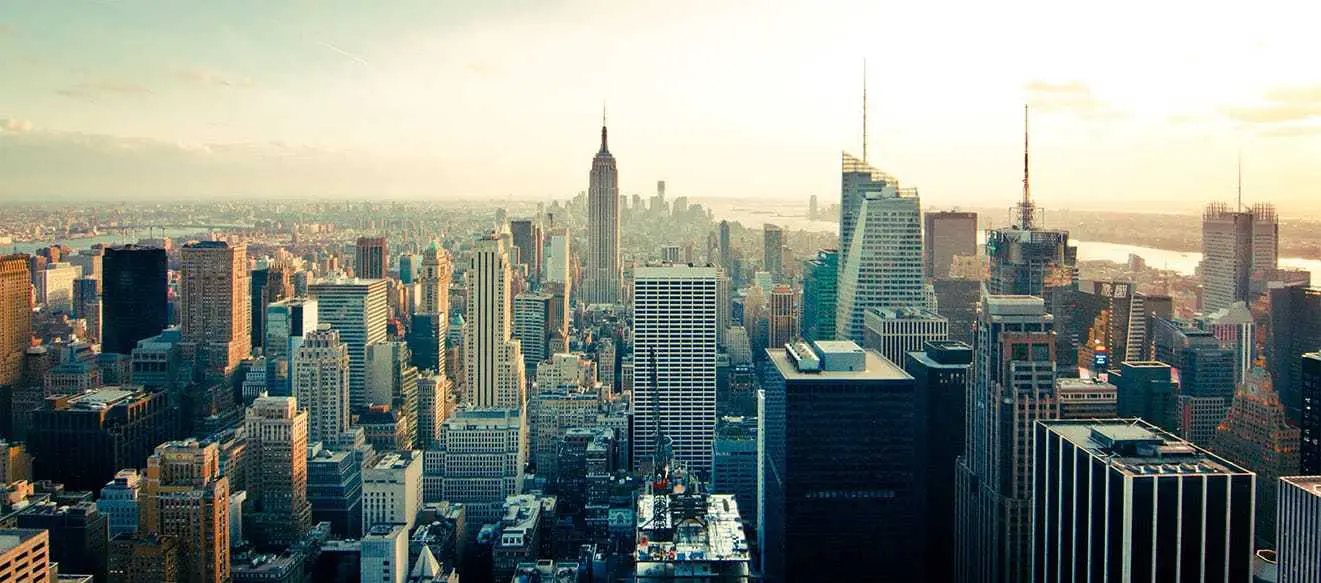
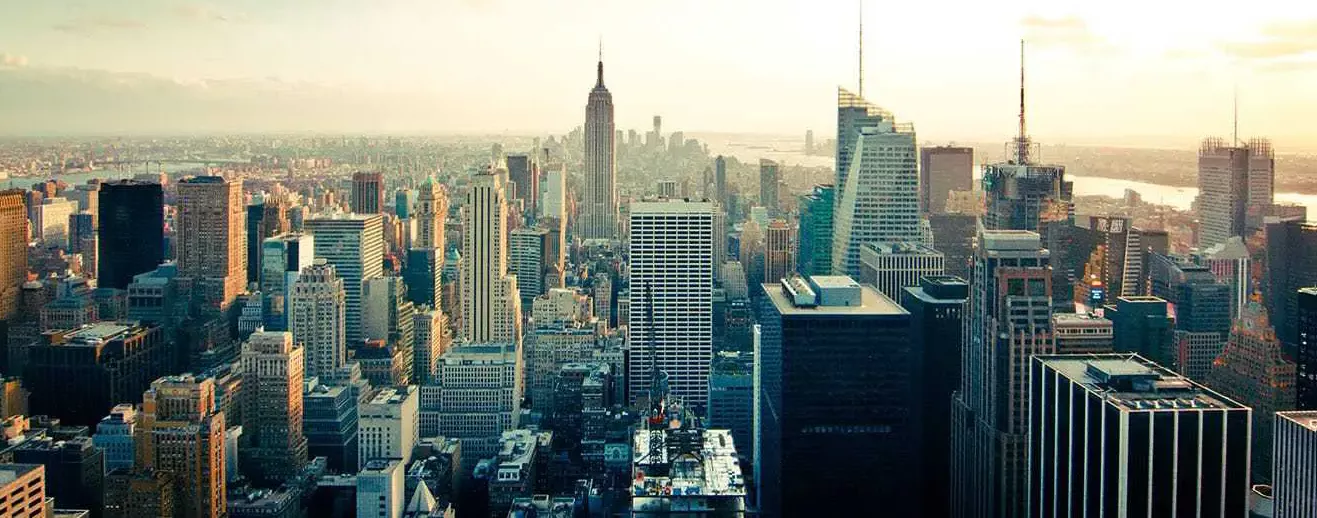
made components

diff --git a/tailwind.config.js b/tailwind.config.js
@@ -26,9 +26,6 @@ export default {
             gridTemplateColumns: {
                 autofit: "repeat(auto-fit, minmax(240px, 1fr))",
             },
-            backgroundImage: {
-                shore: "url('/images/shore.jpg')",
-            },
         },
     },
 

diff --git a/resources/views/layouts/article.blade.php b/resources/views/layouts/article.blade.php
@@ -1,44 +1,8 @@
-<html data-theme="corporate" lang="ja">
-
-<head>
-    <meta charset="UTF-8">
-    <meta name="viewport" content="width=device-width, initial-scale=1.0">
-    <meta http-equiv="X-UA-Compatible" content="ie=edge">
-    <title>Card Blog - Blog Portfolio</title>
-    <!-- Fonts -->
-    <link rel="preconnect" href="https://fonts.bunny.net">
-    <link href="https://fonts.bunny.net/css?family=figtree:400,500,600&display=swap" rel="stylesheet" />
-
-    <!-- Scripts -->
-    @vite(['resources/css/app.css', 'resources/js/app.js'])
-</head>
-
-<body class="bg-base-200 font-jp">
+<x-head-layout>
     @include('components.header')
     <main class="container max-w-screen-xl px-4 mx-auto">
         {{ $slot }}
     </main>
     </div>
-    <footer class="footer mt-20 p-10 bg-neutral text-neutral-content">
-        <div>
-            <svg width="50" height="50" viewBox="0 0 24 24" xmlns="http://www.w3.org/2000/svg"
-                fill-rule="evenodd" clip-rule="evenodd" class="fill-current">
-                <path
-                    d="M22.672 15.226l-2.432.811.841 2.515c.33 1.019-.209 2.127-1.23 2.456-1.15.325-2.148-.321-2.463-1.226l-.84-2.518-5.013 1.677.84 2.517c.391 1.203-.434 2.542-1.831 2.542-.88 0-1.601-.564-1.86-1.314l-.842-2.516-2.431.809c-1.135.328-2.145-.317-2.463-1.229-.329-1.018.211-2.127 1.231-2.456l2.432-.809-1.621-4.823-2.432.808c-1.355.384-2.558-.59-2.558-1.839 0-.817.509-1.582 1.327-1.846l2.433-.809-.842-2.515c-.33-1.02.211-2.129 1.232-2.458 1.02-.329 2.13.209 2.461 1.229l.842 2.515 5.011-1.677-.839-2.517c-.403-1.238.484-2.553 1.843-2.553.819 0 1.585.509 1.85 1.326l.841 2.517 2.431-.81c1.02-.33 2.131.211 2.461 1.229.332 1.018-.21 2.126-1.23 2.456l-2.433.809 1.622 4.823 2.433-.809c1.242-.401 2.557.484 2.557 1.838 0 .819-.51 1.583-1.328 1.847m-8.992-6.428l-5.01 1.675 1.619 4.828 5.011-1.674-1.62-4.829z">
-                </path>
-            </svg>
-            <p>Copyright © 2023 Sue <br> All Rights Reserved.</p>
-        </div>
-        <div class="mx">
-            <span class="footer-title">repository</span>
-            <a href="https://github.com/suesanjp/LaravelBlog"><svg xmlns="http://www.w3.org/2000/svg"
-                    xmlns:xlink="http://www.w3.org/1999/xlink" width="25px" height="24px" viewBox="0 0 24 24"
-                    version="1.1">
-                    <path style=" stroke:none;fill-rule:evenodd;fill:rgb(100%,100%,100%);fill-opacity:1;"
-                        d="M 11.964844 0 C 5.347656 0 0 5.5 0 12.304688 C 0 17.742188 3.425781 22.347656 8.179688 23.976562 C 8.773438 24.097656 8.992188 23.710938 8.992188 23.386719 C 8.992188 23.101562 8.972656 22.125 8.972656 21.105469 C 5.644531 21.839844 4.953125 19.636719 4.953125 19.636719 C 4.417969 18.210938 3.625 17.84375 3.625 17.84375 C 2.535156 17.089844 3.703125 17.089844 3.703125 17.089844 C 4.914062 17.171875 5.546875 18.355469 5.546875 18.355469 C 6.617188 20.226562 8.339844 19.699219 9.03125 19.371094 C 9.132812 18.578125 9.449219 18.027344 9.785156 17.722656 C 7.132812 17.4375 4.339844 16.378906 4.339844 11.652344 C 4.339844 10.308594 4.8125 9.207031 5.566406 8.351562 C 5.445312 8.046875 5.03125 6.785156 5.683594 5.09375 C 5.683594 5.09375 6.695312 4.765625 8.972656 6.355469 C 9.949219 6.085938 10.953125 5.949219 11.964844 5.949219 C 12.972656 5.949219 14.003906 6.089844 14.957031 6.355469 C 17.234375 4.765625 18.242188 5.09375 18.242188 5.09375 C 18.898438 6.785156 18.480469 8.046875 18.363281 8.351562 C 19.136719 9.207031 19.589844 10.308594 19.589844 11.652344 C 19.589844 16.378906 16.796875 17.417969 14.125 17.722656 C 14.558594 18.109375 14.933594 18.84375 14.933594 20.003906 C 14.933594 21.65625 14.914062 22.980469 14.914062 23.386719 C 14.914062 23.710938 15.132812 24.097656 15.726562 23.976562 C 20.480469 22.347656 23.910156 17.742188 23.910156 12.304688 C 23.929688 5.5 18.558594 0 11.964844 0 Z M 11.964844 0 " />
-                </svg></a>
-        </div>
-    </footer>
-</body>
-
-</html>
+    @include('components.footer')
+</x-head-layout>

diff --git a/resources/views/components/footer.blade.php b/resources/views/components/footer.blade.php
@@ -1,0 +1,36 @@
+<footer class="footer mt-20 p-10 bg-neutral text-neutral-content flex justify-around">
+    <div>
+        <svg height="80px" width="80px" version="1.1" id="_x32_" xmlns="http://www.w3.org/2000/svg"
+            xmlns:xlink="http://www.w3.org/1999/xlink" viewBox="0 0 512 512" xml:space="preserve">
+            <style type="text/css">
+                .st0 {
+                    fill: #ffffff;
+                }
+            </style>
+            <g>
+                <path class="st0"
+                    d="M320.707,0L37.037,69.971v417.625L320.447,512l154.516-26.258V62.568L320.707,0z M290.346,471.742
+		l-92.584-7.974v-79.426l-55.086-0.677v75.36l-68.109-5.866V99.367l215.779-53.224V471.742z" />
+                <polygon class="st0" points="271.25,76.933 226.537,86.32 226.537,138.956 271.25,131.246 	" />
+                <polygon class="st0" points="118.574,112.033 87.416,118.622 87.416,164.818 118.574,159.469 	" />
+                <polygon class="st0" points="190.012,95.942 150.426,104.23 150.426,153.027 190.012,146.202 	" />
+                <polygon class="st0" points="118.576,203.184 87.416,207.448 87.416,253.722 118.576,250.622 	" />
+                <polygon class="st0" points="190.012,192.792 150.426,198.154 150.426,246.952 190.012,243.052 	" />
+                <polygon class="st0" points="271.25,181.04 226.537,187.097 226.537,238.911 271.25,234.506 	" />
+                <polygon class="st0" points="271.25,286.135 226.537,288.889 226.537,340.702 271.25,339.6 	" />
+                <polygon class="st0" points="190.012,291.476 150.426,293.914 150.426,342.712 190.012,341.737 	" />
+                <polygon class="st0" points="118.574,296.198 87.416,298.136 87.416,344.409 118.574,343.634 	" />
+            </g>
+        </svg>
+        <p>Copyright © 2023 Sue <br> All Rights Reserved.</p>
+    </div>
+    <div>
+        <span class="footer-title">repository</span>
+        <a class="mx-auto" href="https://github.com/suesanjp/LaravelBlog"><svg xmlns="http://www.w3.org/2000/svg"
+                xmlns:xlink="http://www.w3.org/1999/xlink" width="60px" height="60px" viewBox="0 0 24 24"
+                version="1.1">
+                <path style=" stroke:none;fill-rule:evenodd;fill:rgb(100%,100%,100%);fill-opacity:1;"
+                    d="M 11.964844 0 C 5.347656 0 0 5.5 0 12.304688 C 0 17.742188 3.425781 22.347656 8.179688 23.976562 C 8.773438 24.097656 8.992188 23.710938 8.992188 23.386719 C 8.992188 23.101562 8.972656 22.125 8.972656 21.105469 C 5.644531 21.839844 4.953125 19.636719 4.953125 19.636719 C 4.417969 18.210938 3.625 17.84375 3.625 17.84375 C 2.535156 17.089844 3.703125 17.089844 3.703125 17.089844 C 4.914062 17.171875 5.546875 18.355469 5.546875 18.355469 C 6.617188 20.226562 8.339844 19.699219 9.03125 19.371094 C 9.132812 18.578125 9.449219 18.027344 9.785156 17.722656 C 7.132812 17.4375 4.339844 16.378906 4.339844 11.652344 C 4.339844 10.308594 4.8125 9.207031 5.566406 8.351562 C 5.445312 8.046875 5.03125 6.785156 5.683594 5.09375 C 5.683594 5.09375 6.695312 4.765625 8.972656 6.355469 C 9.949219 6.085938 10.953125 5.949219 11.964844 5.949219 C 12.972656 5.949219 14.003906 6.089844 14.957031 6.355469 C 17.234375 4.765625 18.242188 5.09375 18.242188 5.09375 C 18.898438 6.785156 18.480469 8.046875 18.363281 8.351562 C 19.136719 9.207031 19.589844 10.308594 19.589844 11.652344 C 19.589844 16.378906 16.796875 17.417969 14.125 17.722656 C 14.558594 18.109375 14.933594 18.84375 14.933594 20.003906 C 14.933594 21.65625 14.914062 22.980469 14.914062 23.386719 C 14.914062 23.710938 15.132812 24.097656 15.726562 23.976562 C 20.480469 22.347656 23.910156 17.742188 23.910156 12.304688 C 23.929688 5.5 18.558594 0 11.964844 0 Z M 11.964844 0 " />
+            </svg></a>
+    </div>
+</footer>

diff --git a/resources/views/layouts/app.blade.php b/resources/views/layouts/app.blade.php
@@ -1,30 +1,12 @@
-<!DOCTYPE html>
-<html lang="{{ str_replace('_', '-', app()->getLocale()) }}">
-    <head>
-        <meta charset="utf-8">
-        <meta name="viewport" content="width=device-width, initial-scale=1">
-        <meta name="csrf-token" content="{{ csrf_token() }}">
+    <x-head-layout>
+    <!-- Page Heading -->
+    @if (isset($header))
+        @include('components.header')
+    @endif
 
-        <title>{{ config('app.name', 'Laravel') }}</title>
-
-        <!-- Fonts -->
-        <link rel="preconnect" href="https://fonts.bunny.net">
-        <link href="https://fonts.bunny.net/css?family=figtree:400,500,600&display=swap" rel="stylesheet" />
-
-        <!-- Scripts -->
-        @vite(['resources/css/app.css', 'resources/js/app.js'])
-    </head>
-    <body class="font-sans antialiased">
-
-            <!-- Page Heading -->
-            @if (isset($header))
-    @include('components.header')
-            @endif
-
-            <!-- Page Content -->
-            <main>
-                {{ $slot }}
-            </main>
-    </body>
-</html>
-
+    <!-- Page Content -->
+    <main>
+        {{ $slot }}
+    </main>
+@include('components.footer')
+    </x-head-layout>

diff --git a/resources/views/layouts/head.blade.php b/resources/views/layouts/head.blade.php
@@ -1,0 +1,21 @@
+<!DOCTYPE html>
+<html data-theme="corporate" lang="{{ str_replace('_', '-', app()->getLocale()) }}">
+
+<head>
+    <meta charset="UTF-8">
+    <meta name="viewport" content="width=device-width, initial-scale=1">
+    <meta name="csrf-token" content="{{ csrf_token() }}">
+    <title>Card Blog - Blog Portfolio</title>
+    <!-- Fonts -->
+    <link rel="preconnect" href="https://fonts.bunny.net">
+    <link href="https://fonts.bunny.net/css?family=figtree:400,500,600&display=swap" rel="stylesheet" />
+
+    <!-- Scripts -->
+    @vite(['resources/css/app.css', 'resources/js/app.js'])
+</head>
+
+<body class="bg-base-200 font-jp">
+    {{ $slot }}
+</body>
+
+</html>

diff --git a/resources/views/components/header.blade.php b/resources/views/components/header.blade.php
@@ -49,7 +49,7 @@
             @endif
         </div>
         {{-- Background Image --}}
-        <div class="hero min-h-fit" style="background-image: url('/images/empire.webp');">
+        <div class="hero min-h-fit bg-top" style="background-image: url('/images/empire.webp');">
             <div class="hero-overlay bg-opacity-60"></div>
             <div class="hero-content text-center text-neutral-content">
                 <div class="max-w-md my-8">

diff --git a/app/View/Components/HeadLayout.php b/app/View/Components/HeadLayout.php
@@ -1,0 +1,17 @@
+<?php
+
+namespace App\View\Components;
+
+use Illuminate\View\Component;
+use Illuminate\View\View;
+
+class HeadLayout extends Component
+{
+    /**
+     * Get the view / contents that represents the component.
+     */
+    public function render(): View
+    {
+        return view('layouts.head');
+    }
+}
